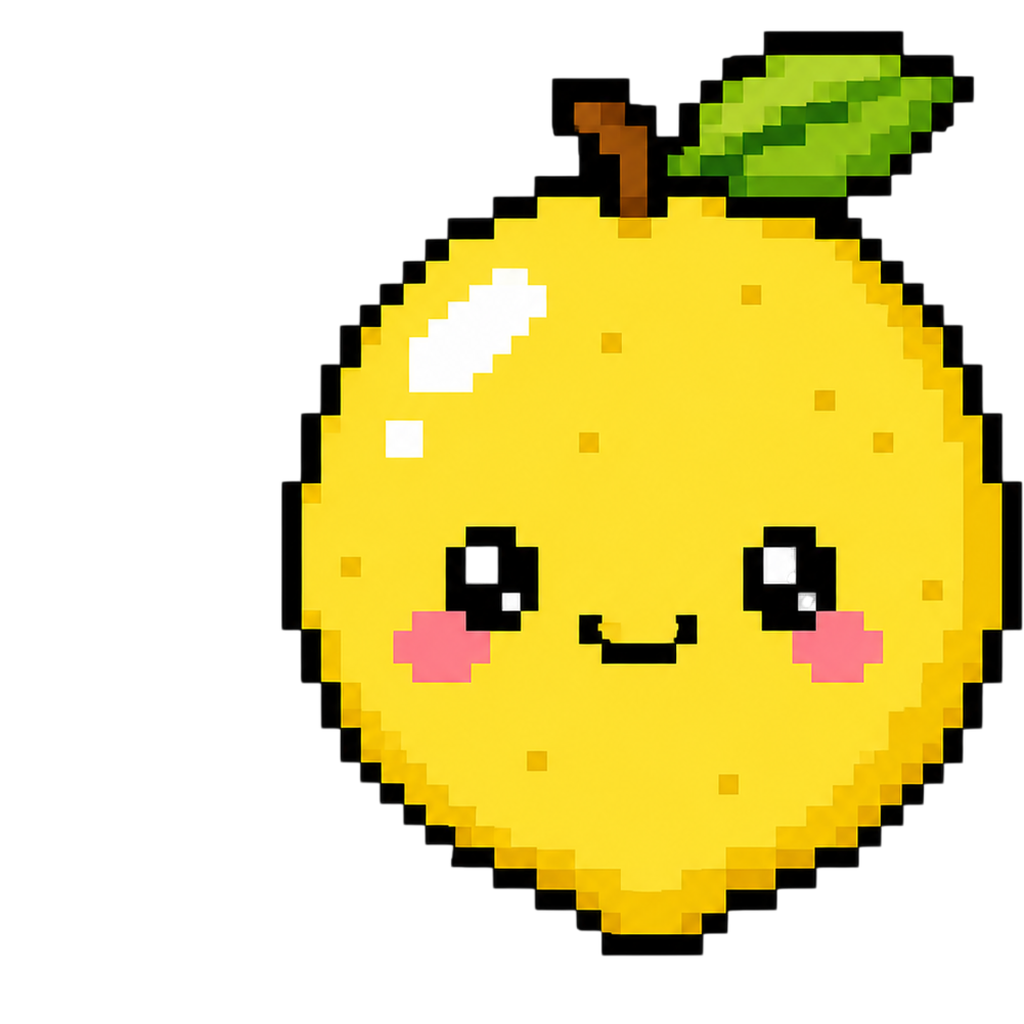
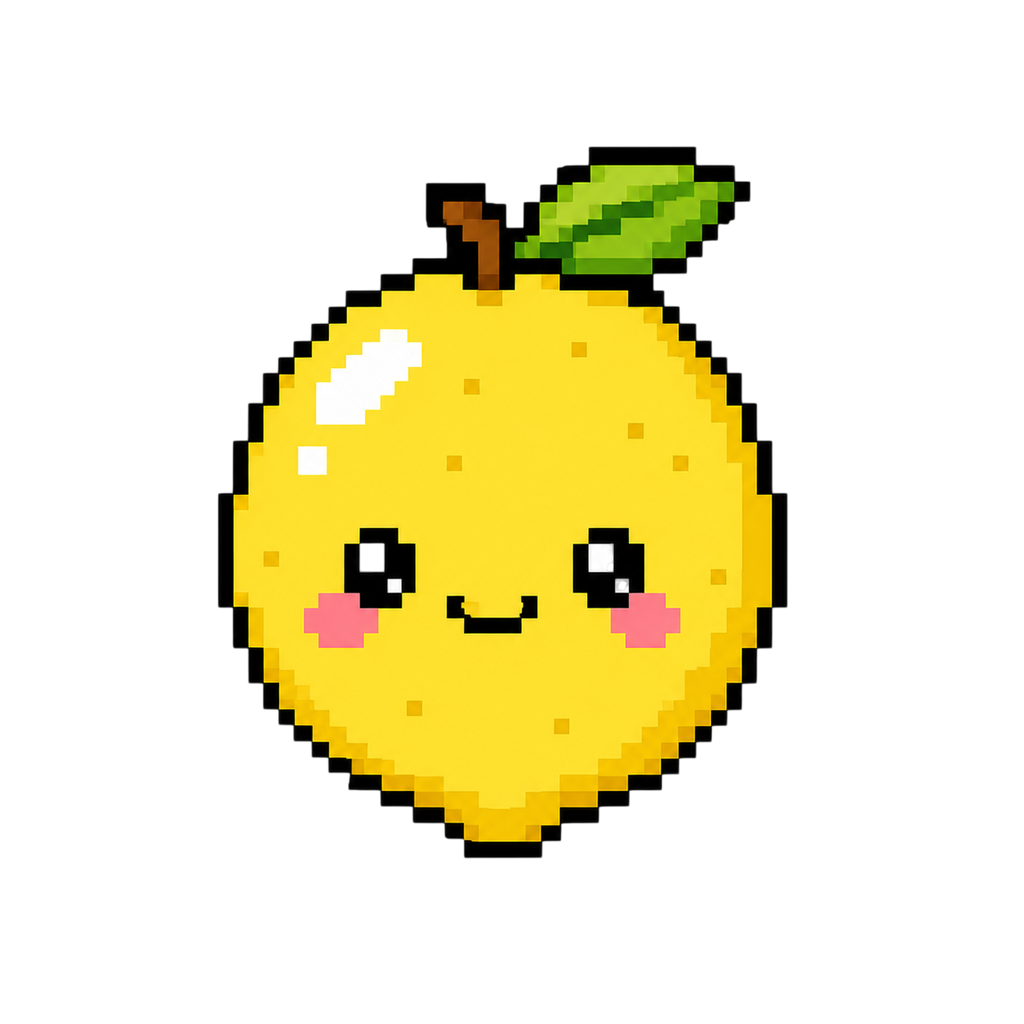
fix: 과일 이미지 중앙 정렬 및 물리/렌더링 보정
- 딸기·포도·레몬·파인애플 이미지 centroid 기반 재처리 (잘림/편심 수정)
- 스프라이트 스케일 512→470 (과일 간 시각적 틈 감소)
- 포도 radius 40→50 (레몬보다 살짝 작게)
- 딸기 radius 32→28
- 모바일 중력 보정 (engine.gravity.y = 1/scale)
- 마우스 좌표 보정 (mouse.scale) — 가이드 선 정중앙 정렬

diff --git a/js/game.js b/js/game.js
@@ -5,17 +5,17 @@ const {
 
 // ─── 이미지 교체 시 이 배열만 수정하면 됩니다 ───────────────────────────
 const FRUIT_CONFIG = [
-  { radius: 32,  scoreValue: 1,  img: './assets/img/circle0.png'  }, // 0: 체리
-  { radius: 43,  scoreValue: 3,  img: './assets/img/circle1.png'  }, // 1: 딸기
-  { radius: 54,  scoreValue: 6,  img: './assets/img/circle2.png'  }, // 2: 포도
-  { radius: 76,  scoreValue: 10, img: './assets/img/circle3.png'  }, // 3: 레몬
-  { radius: 86,  scoreValue: 15, img: './assets/img/circle4.png'  }, // 4: 귤
-  { radius: 97,  scoreValue: 21, img: './assets/img/circle5.png'  }, // 5: 사과
-  { radius: 113, scoreValue: 28, img: './assets/img/circle6.png'  }, // 6: 배
-  { radius: 130, scoreValue: 36, img: './assets/img/circle7.png'  }, // 7: 복숭아
-  { radius: 173, scoreValue: 45, img: './assets/img/circle8.png'  }, // 8: 파인애플
-  { radius: 216, scoreValue: 55, img: './assets/img/circle9.png'  }, // 9: 멜론
-  { radius: 259, scoreValue: 66, img: './assets/img/circle10.png' }, // 10: 수박
+  { radius: 24,  scoreValue: 1,  img: './assets/img/circle0.png'  }, // 0: 체리
+  { radius: 28,  scoreValue: 3,  img: './assets/img/circle1.png'  }, // 1: 딸기
+  { radius: 50,  scoreValue: 6,  img: './assets/img/circle2.png'  }, // 2: 포도
+  { radius: 56,  scoreValue: 10, img: './assets/img/circle3.png'  }, // 3: 레몬
+  { radius: 64,  scoreValue: 15, img: './assets/img/circle4.png'  }, // 4: 귤
+  { radius: 72,  scoreValue: 21, img: './assets/img/circle5.png'  }, // 5: 사과
+  { radius: 84,  scoreValue: 28, img: './assets/img/circle6.png'  }, // 6: 배
+  { radius: 96,  scoreValue: 36, img: './assets/img/circle7.png'  }, // 7: 복숭아
+  { radius: 128, scoreValue: 45, img: './assets/img/circle8.png'  }, // 8: 파인애플
+  { radius: 160, scoreValue: 55, img: './assets/img/circle9.png'  }, // 9: 멜론
+  { radius: 192, scoreValue: 66, img: './assets/img/circle10.png' }, // 10: 수박
 ];
 // ─────────────────────────────────────────────────────────────────────────────
 
@@ -123,7 +123,7 @@ function saveHighscore() {
 // ─── 과일 바디 생성 ──────────────────────────────────────────────────────────
 function makeFruitBody(x, y, sizeIdx, extra = {}) {
   const { radius, img } = FRUIT_CONFIG[sizeIdx];
-  const scale = radius / 512;
+  const scale = radius / 470;
   const body = Bodies.circle(x, y, radius, {
     ...FRICTION,
     ...extra,
@@ -430,6 +430,11 @@ function resizeCanvas() {
   el.ui.style.width          = '640px';
   el.ui.style.height         = '960px';
   el.ui.style.transform      = `scale(${scale})`;
+
+  engine.gravity.y = 1 / scale;
+
+  mouse.scale.x = 640 / w;
+  mouse.scale.y = 960 / h;
 
   const sideRight = document.getElementById('side-right');
   sideRight.style.height = isMobile ? 'auto' : `${h - (isTablet ? 64 : 128)}px`;
